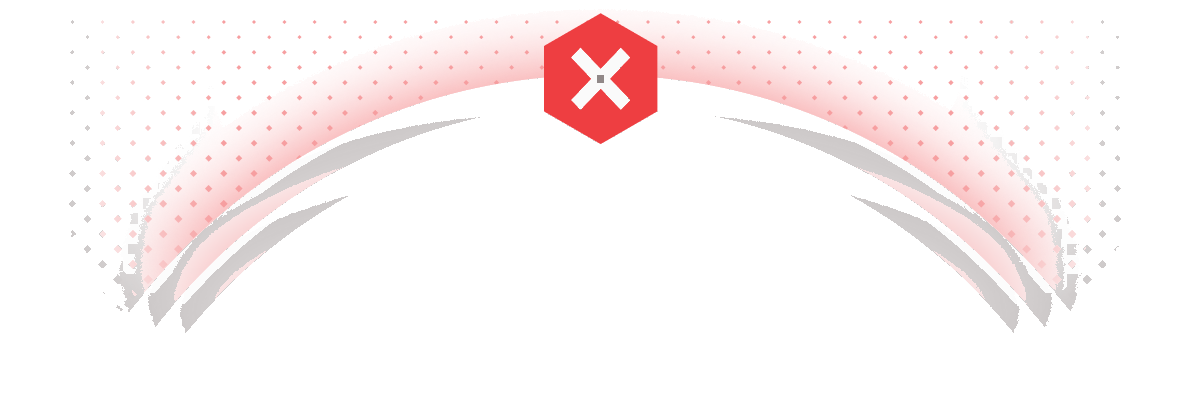
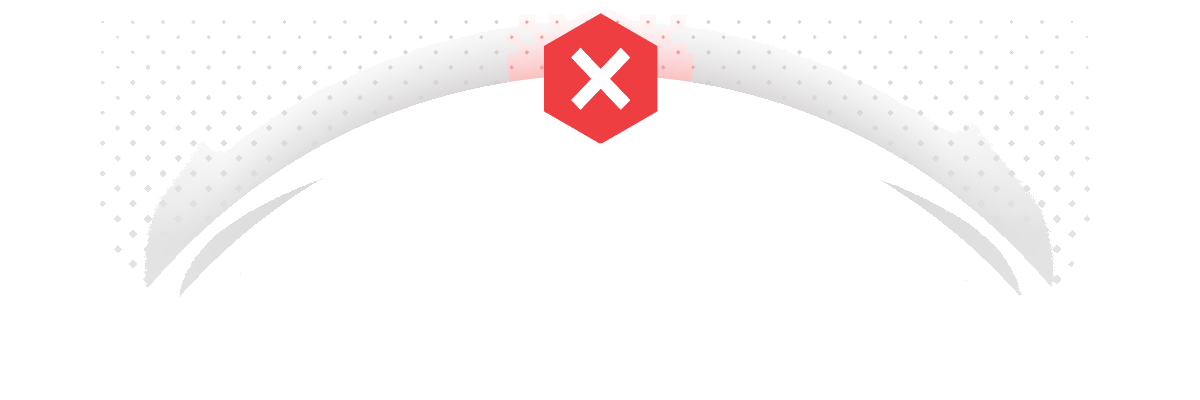
Force dark hero art refresh with new filenames
Aggressively mute SA swooshes/white dots, keep badge only, and
serve *-dark.png?v= so browsers/CDN cannot keep the old bright art.

Changed region(s): [[0.555, 0.18, 0.925, 0.84], [0.0925, 0.15, 0.4317, 0.81], [0.4933, 0.18, 0.5242, 0.21]]

diff --git a/chillflix-patches/scamguard/includes/functions.php b/chillflix-patches/scamguard/includes/functions.php
@@ -121,7 +121,7 @@ function rating_score_theme(int $score): array
         return [
             'heroBg' => 'container-result-page-hero-bg-image-green',
             'progressBar' => 'progress-bar-green',
-            'bgFile' => 'result_page_hero_bg_green.png',
+            'bgFile' => 'result_page_hero_bg_green-dark.png',
             'label' => 'Very Likely Safe',
             'why' => 'an average to good',
             'hint' => 'No strong scam signals found for this result.',
@@ -131,7 +131,7 @@ function rating_score_theme(int $score): array
         return [
             'heroBg' => 'container-result-page-hero-bg-image-light-green',
             'progressBar' => 'progress-bar-light-green',
-            'bgFile' => 'result_page_hero_bg_light_green.png',
+            'bgFile' => 'result_page_hero_bg_light_green-dark.png',
             'label' => 'Likely Safe',
             'why' => 'a decent',
             'hint' => 'Mostly positive signals, but stay alert.',
@@ -141,7 +141,7 @@ function rating_score_theme(int $score): array
         return [
             'heroBg' => 'container-result-page-hero-bg-image-orange',
             'progressBar' => 'progress-bar-orange',
-            'bgFile' => 'result_page_hero_bg_orange.png',
+            'bgFile' => 'result_page_hero_bg_orange-dark.png',
             'label' => 'Suspicious',
             'why' => 'a mixed',
             'hint' => 'Some risk signals are present — verify before you trust it.',
@@ -151,7 +151,7 @@ function rating_score_theme(int $score): array
         return [
             'heroBg' => 'container-result-page-hero-bg-image-dark-orange',
             'progressBar' => 'progress-bar-dark-orange',
-            'bgFile' => 'result_page_hero_bg_dark_orange.png',
+            'bgFile' => 'result_page_hero_bg_dark_orange-dark.png',
             'label' => 'Likely Unsafe',
             'why' => 'a low',
             'hint' => 'Elevated risk patterns were detected.',
@@ -161,7 +161,7 @@ function rating_score_theme(int $score): array
         return [
             'heroBg' => 'container-result-page-hero-bg-image-red',
             'progressBar' => 'progress-bar-red',
-            'bgFile' => 'result_page_hero_bg_red.png',
+            'bgFile' => 'result_page_hero_bg_red-dark.png',
             'label' => 'Very Likely Unsafe',
             'why' => 'a very low',
             'hint' => 'Strong scam / abuse signals — do not trust this.',
@@ -171,7 +171,7 @@ function rating_score_theme(int $score): array
     return [
         'heroBg' => 'container-result-page-hero-bg-image-gray',
         'progressBar' => 'progress-bar-bg-none',
-        'bgFile' => 'result_page_hero_bg_gray.png',
+        'bgFile' => 'result_page_hero_bg_gray-dark.png',
         'label' => 'Unknown',
         'why' => 'an unclear',
         'hint' => 'Not enough data for a confident verdict yet.',
@@ -228,7 +228,8 @@ function render_status_banner(string $status, int $score, string $subject, array
     }
 
     $base = defined('BASE_PATH') ? rtrim(BASE_PATH, '/') : '';
-    $bgUrl = $base . '/assets/img/hero/' . $t['bgFile'];
+    $assetVer = '20260727sa11';
+    $bgUrl = $base . '/assets/img/hero/' . $t['bgFile'] . '?v=' . $assetVer;
     $brand = get_setting('site_name', 'ScamGuard');
     $lastUpdate = $meta['last_update'] ?? '';
 

diff --git a/chillflix-patches/scamguard/includes/header.php b/chillflix-patches/scamguard/includes/header.php
@@ -2,7 +2,7 @@
 $siteName = get_setting('site_name', 'ScamGuard');
 $announcementEnabled = get_setting('announcement_enabled', '0') === '1';
 $announcement = get_setting('announcement_banner', '');
-$assetVer = '20260727sa10';
+$assetVer = '20260727sa11';
 
 $pageTitle = $pageTitle ?? $siteName;
 $pageDescription = $pageDescription ?? 'Check websites for scam, phishing, and malware risk signals before you click.';
